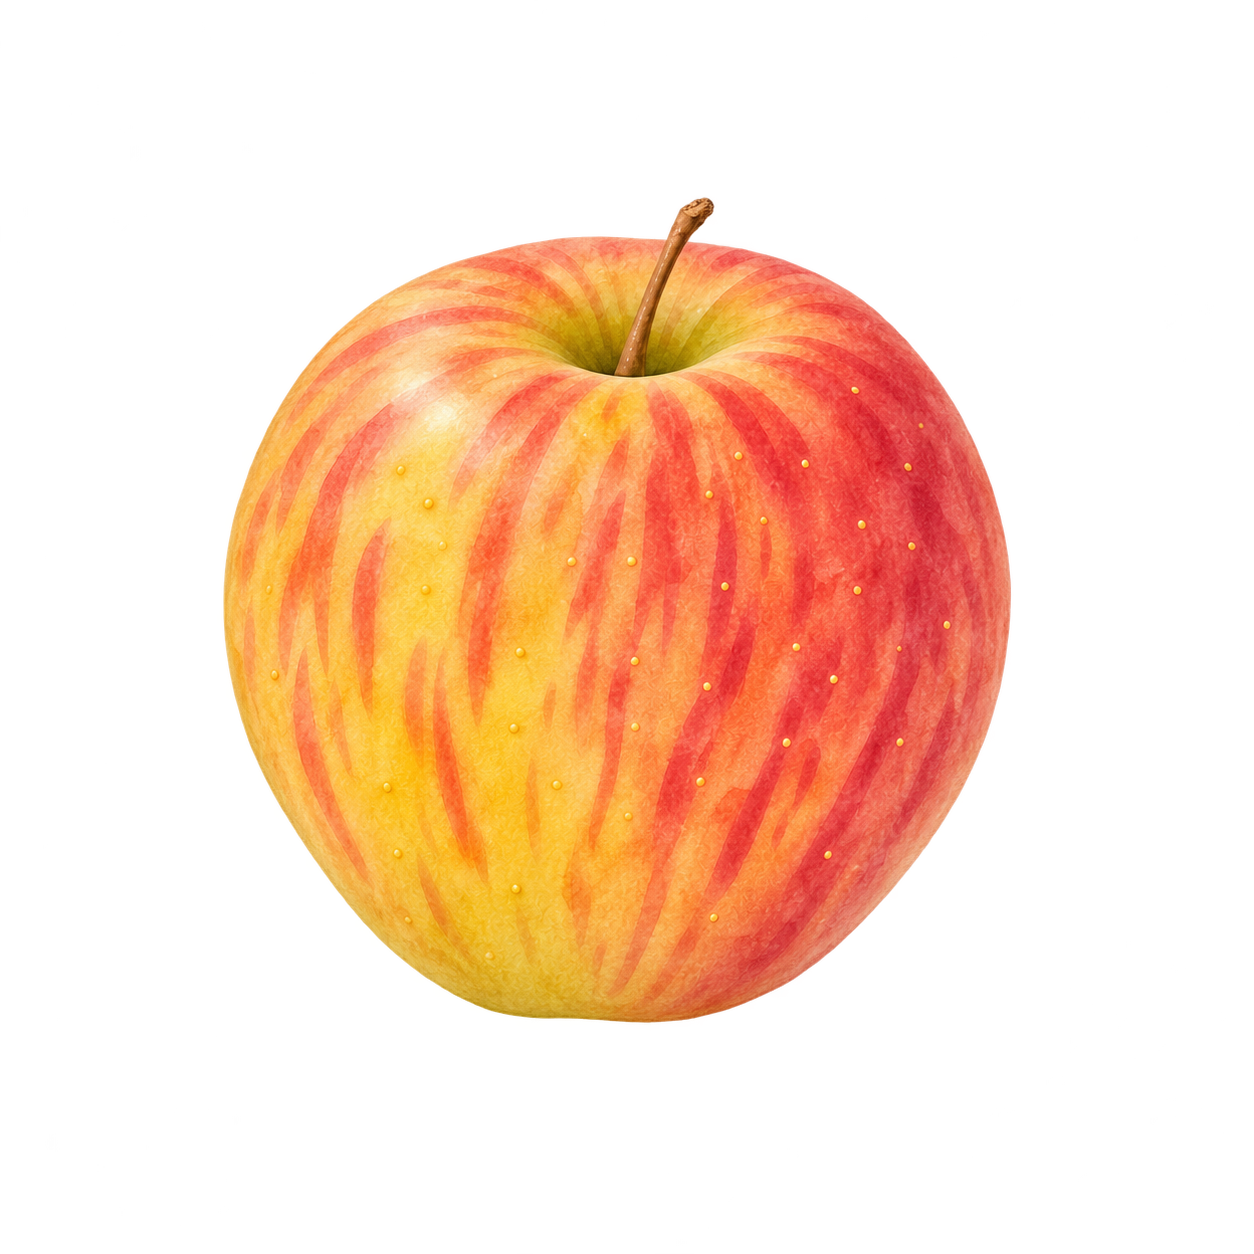
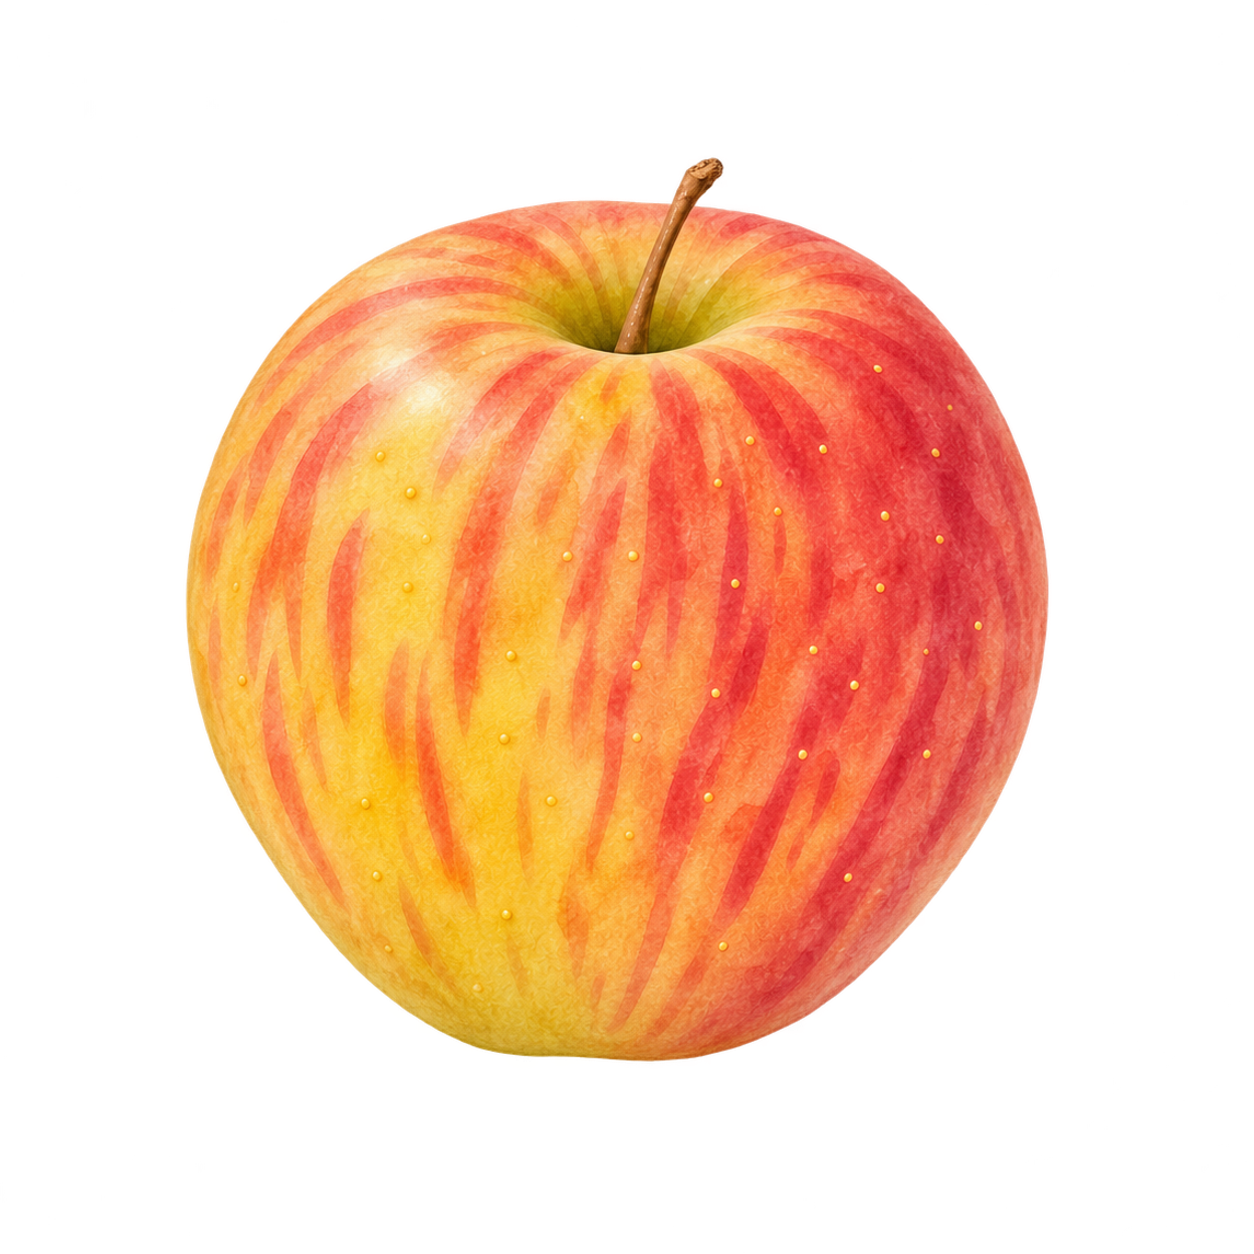
Art: rescale six thumbnails to their family's scale; queue repaints
Gala, Clementine, Satsuma and Pixie filled 50-63% of the canvas width against
68-75% for their families; nectarine (84%) and grapefruit (88%) ran large.
Each master is resized about the canvas centre to 68-82% (same canvas,
transparent padding), as a stopgap. Jared asked for proper repaints too: a
Revision requested note in each subject's staging brief queues them.

Checked: art:process (checkMaster passes), data:build, and a review sheet of
each against its family at 40, 72 and 180 px on ivory and charcoal.

Changed region(s): [[0.1244, 0.1244, 0.8397, 0.8708]]

diff --git a/art/staging/09a-satsuma-pixie/README.md b/art/staging/09a-satsuma-pixie/README.md
@@ -48,3 +48,11 @@ The original built-in output is a 1254 × 1254 RGBA PNG and passed `checkMaster`
 ```
 
 > Paint a new standalone Orchard Pixie mandarin variety thumbnail. References 1 (approved Clementine) and 2 (approved Gold Nugget) are style and scale guides: use their luminous botanical watercolor washes, soft granulation, subtle pigment pooling, selective detail, softly broken paint edges, gently elevated three-quarter view and diffuse upper-left light. Depict one small Ojai Pixie tangerine, nearly round to just slightly flattened, with a subtly irregular outline and a very low broad stem-end collar and a tiny clipped green-brown stem button. Rim and collar should flow into the shoulders without a protruding knob. Keep the rind bright yellow-orange with shallow, fine, irregular pebbles appreciably subtler than Gold Nugget. Keep the skin pattern quiet enough to read as one painted form. Use the stem button alone. Keep the fruit body about 54% of the square width, centered with clear margins, with the compact round outline and color readable at 48 px. Square PNG at least 1024 px per side, genuine transparent alpha, no foliage, cut pieces, paper or checkerboard, ground, cast shadow, border, text, hard outline, or photographic gloss.
+
+## Revision requested: mandarins-satsuma-thumbnail-v2 (Jared, 2026-11-19)
+
+The approved painting was 60% of the canvas wide against 68–73% for the round mandarins. Claude rescaled the master in `art/masters/` (×1.17 about the centre) to 70% so the app matches its family meanwhile. Paint `mandarins-satsuma-thumbnail-v3` with the same identifying traits at about 70% width (longer side 75–85% of the canvas), check it on the review sheet beside the family, and hand it off once Jared approves it.
+
+## Revision requested: mandarins-pixie-thumbnail-v1 (Jared, 2026-11-19)
+
+The approved painting was 50% of the canvas wide against 68–73% for the round mandarins. Claude rescaled the master in `art/masters/` (×1.36 about the centre) to 68% so the app matches its family meanwhile. Paint `mandarins-pixie-thumbnail-v2` with the same identifying traits at about 68% width (longer side 75–85% of the canvas), check it on the review sheet beside the family, and hand it off once Jared approves it.

diff --git a/art/staging/01b-mandarins-strawberries/README.md b/art/staging/01b-mandarins-strawberries/README.md
@@ -336,3 +336,7 @@ Both review stages are complete. Gold Nugget v2 was withdrawn after stage 2.
 **Built-in generation prompt**
 
 > Paint a fresh Orchard botanical watercolor thumbnail of one whole Gold Nugget mandarin. Use image 1 (first-pass fruit) as a loose guide to subject, scale and viewpoint. Use image 2 (Orchard style sheet) only for luminous translucent washes, soft pigment edges and selective detail. Show a slightly flattened fruit about 1.18 times as wide as tall, with a very short clipped stem button and one small muted green citrus leaf tucked to one side. Keep the leaves subordinate and the fruit body's visible width around 70 to 74 percent of the square canvas. Use golden yellow-orange on the lit shoulder and warm ochre-orange in the shade, with a diffuse upper-left highlight. Depict the distinctive natural bumpy rind with small, shallow, uneven pebbles and a few depressed oil glands, in irregular patches that fade into broader washes. Keep the relief delicate, avoiding repetitive round dimples, big bumps, hard white shine and a stippled outline. The fruit should be recognizable at 48 px. Center it in a square PNG at least 1024 px wide with real transparent alpha and clear crop safety on every side. No paper, checkerboard, cast shadow, lettering, border, second fruit or garnish.
+
+## Revision requested: mandarins-clementine-thumbnail-v2 (Jared, 2026-11-19)
+
+The approved painting was 52% of the canvas wide against 68–73% for the round mandarins. Claude rescaled the master in `art/masters/` (×1.31 about the centre) to 68% so the app matches its family meanwhile. Paint `mandarins-clementine-thumbnail-v3` with the same identifying traits at about 68% width (longer side 75–85% of the canvas), check it on the review sheet beside the family, and hand it off once Jared approves it.

diff --git a/art/staging/03-oranges-grapefruit/README.md b/art/staging/03-oranges-grapefruit/README.md
@@ -151,3 +151,7 @@ Reviewed the two remaining v1 assets on ivory and charcoal at their display size
 > Keep the broad Rio Red grapefruit, with golden-yellow rind, rose-coral segments, creamy pith and no leaves. Soften the glossy white rind highlight into a pale yellow wash; group the very fine pores selectively. Confine the red-pink rind blush to a small, broken wash at one shoulder, with sunny yellow dominating. On the cut face, reduce the mass of fine white radiating fibers and use broad alternating coral-rose washes and gently irregular pale segment boundaries, with a few observed juice-vesicle details. Keep the pale pith wide enough and the flesh light enough to distinguish it from Blood orange at 72 px. Preserve the large forward-facing half and the compact overlap.
 
 **Review.** [Staged v2](grapefruit-thumbnail-v2.png) passed `checkMaster` at 1254×1254 RGBA. Broken yellow washes and a smaller shoulder blush put the emphasis on the coral cut face. The cut face has fewer fine streaks and its pale pith reads at 72 px on both backgrounds. The simplified segment edges are more uniform than in v1.
+
+## Revision requested: grapefruit-thumbnail-v2 (Jared, 2026-11-19)
+
+The approved painting was 88% of the canvas wide against 79–85% for the citrus with a cut half. Claude rescaled the master in `art/masters/` (×0.93 about the centre) to 82% so the app matches its family meanwhile. Paint `grapefruit-thumbnail-v3` with the same identifying traits at about 82% width (longer side 75–85% of the canvas), check it on the review sheet beside the family, and hand it off once Jared approves it.

diff --git a/art/staging/05-corn-berries-stone-fruit/nectarines-thumbnail-v1.md b/art/staging/05-corn-berries-stone-fruit/nectarines-thumbnail-v1.md
@@ -37,3 +37,7 @@ Use Image 2 for stone-fruit viewpoint, scale and warm upper-left light. Paint on
 Passed `checkMaster` as a 1254 × 1254 RGBA PNG. Checked at 72, 112 and 320 px on ivory and warm charcoal. The clean contour and continuous shoulder highlight convey smoother skin than the staged peach, with broad crimson washes and a shallow seam. At 72 px the distinction relies mainly on the highlight and stronger red color.
 
 Touch-up if requested. Deepen the crimson over more of the golden side to make the two thumbnails easier to tell apart.
+
+## Revision requested: nectarines-thumbnail-v1 (Jared, 2026-11-19)
+
+The approved painting was 84% of the canvas wide against 70% for peaches and 78% for plums. Claude rescaled the master in `art/masters/` (×0.88 about the centre) to 74% so the app matches its family meanwhile. Paint `nectarines-thumbnail-v2` with the same identifying traits at about 74% width (longer side 75–85% of the canvas), check it on the review sheet beside the family, and hand it off once Jared approves it.

diff --git a/art/staging/01a-apples/README.md b/art/staging/01a-apples/README.md
@@ -265,3 +265,7 @@ Botanical checks:
 
 - Rough pebbled skin, its main visible trait
 - Yellow-orange rather than red-orange
+
+## Revision requested: apples-gala-thumbnail-v3 (Jared, 2026-11-19)
+
+The approved painting was 63% of the canvas wide against 68–75% for the other apples. Claude rescaled the master in `art/masters/` (×1.10 about the centre) to 69% so the app matches its family meanwhile. Paint `apples-gala-thumbnail-v4` with the same identifying traits at about 69% width (longer side 75–85% of the canvas), check it on the review sheet beside the family, and hand it off once Jared approves it.
